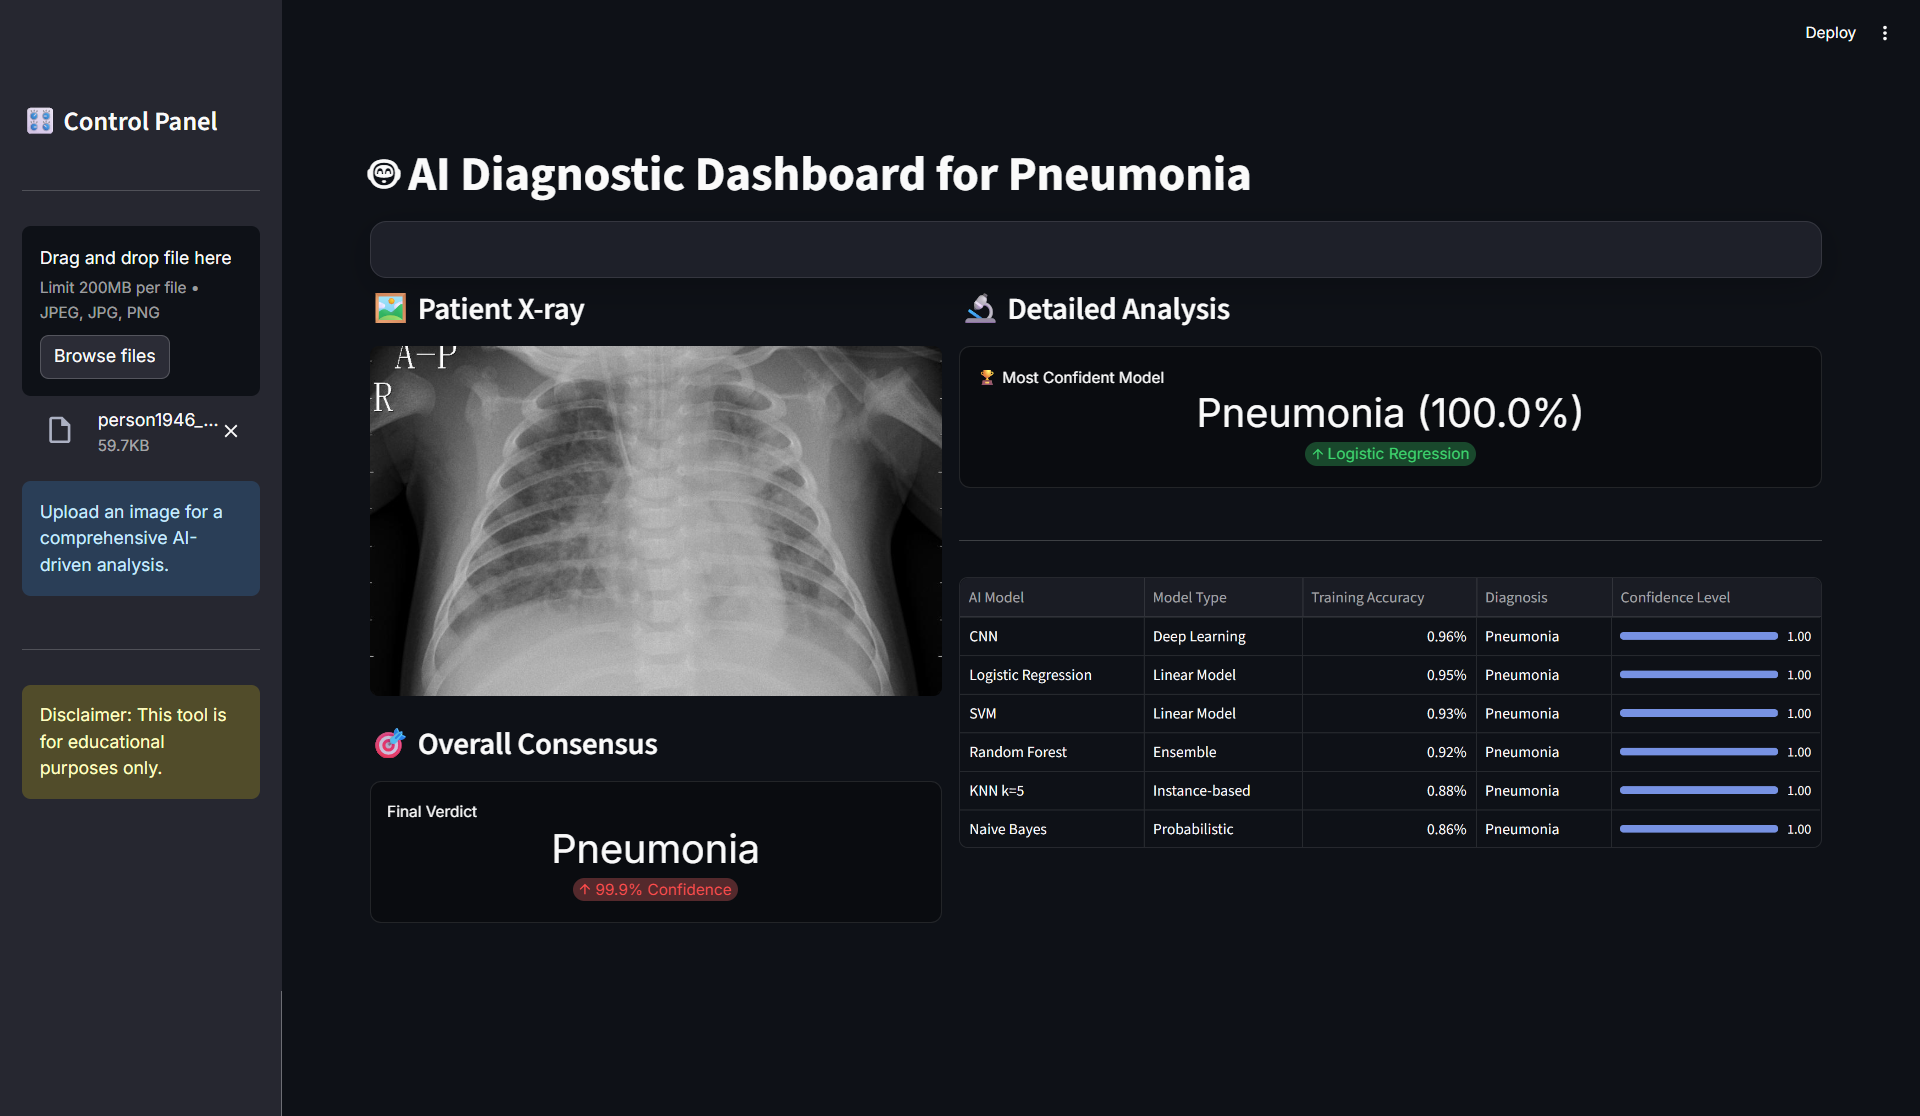
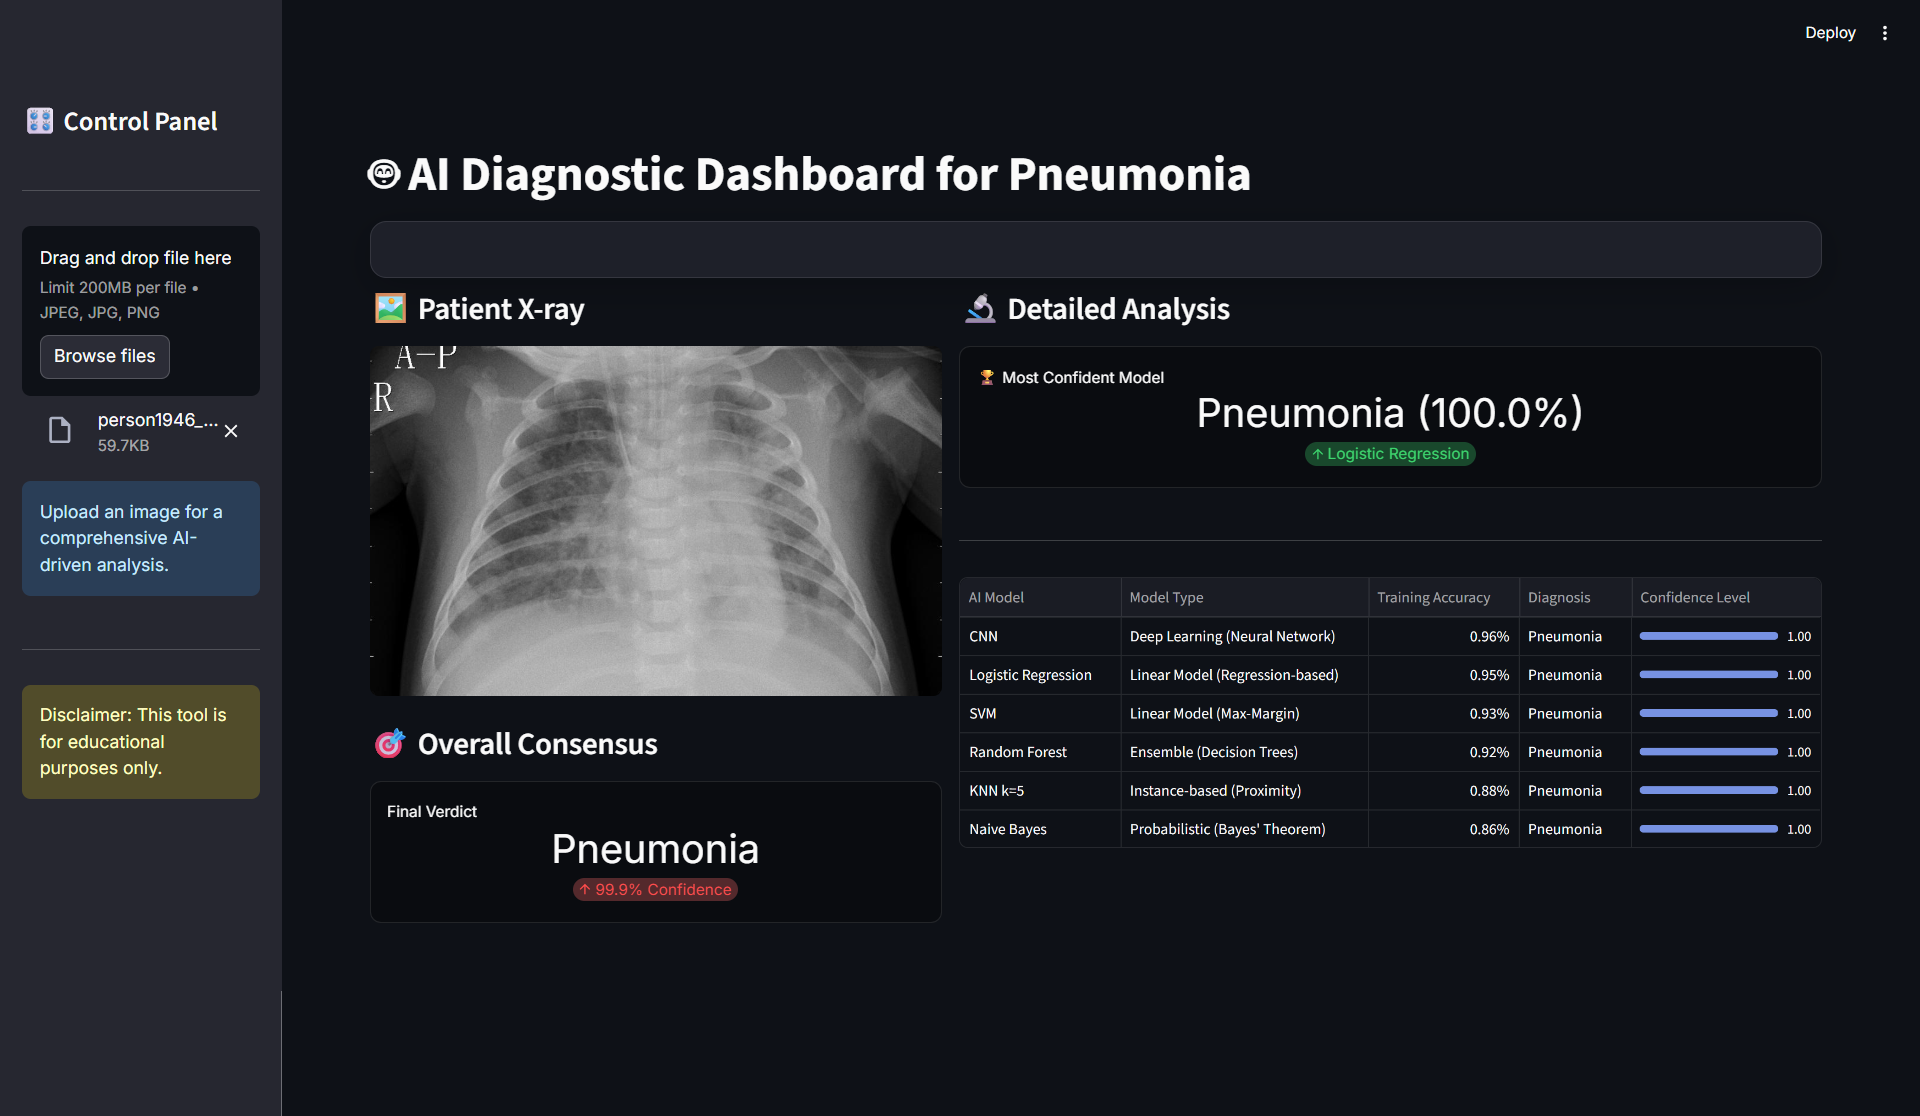
minor updates

Changed region(s): [[0.6875, 0.5179, 0.8438, 0.7616], [0.5938, 0.5179, 0.6875, 0.7616], [0.8438, 0.5179, 0.9062, 0.5484]]

diff --git a/app/app.py b/app/app.py
@@ -60,12 +60,12 @@ models = load_all_models()
 
 # --- Model Info & Explicit Ranking ---
 model_info = {
-    "CNN": {"Accuracy": 0.96, "Type": "Deep Learning"},
-    "Logistic Regression": {"Accuracy": 0.95, "Type": "Linear Model"},
-    "SVM": {"Accuracy": 0.93, "Type": "Linear Model"},
-    "Random Forest": {"Accuracy": 0.92, "Type": "Ensemble"},
-    "KNN k=5": {"Accuracy": 0.88, "Type": "Instance-based"},
-    "Naive Bayes": {"Accuracy": 0.86, "Type": "Probabilistic"}
+    "CNN": {"Accuracy": 0.96, "Type": "Deep Learning (Neural Network)"},
+    "Logistic Regression": {"Accuracy": 0.95, "Type": "Linear Model (Regression-based)"},
+    "SVM": {"Accuracy": 0.93, "Type": "Linear Model (Max-Margin)"},
+    "Random Forest": {"Accuracy": 0.92, "Type": "Ensemble (Decision Trees)"},
+    "KNN k=5": {"Accuracy": 0.88, "Type": "Instance-based (Proximity)"},
+    "Naive Bayes": {"Accuracy": 0.86, "Type": "Probabilistic (Bayes' Theorem)"}
 }
 
 # The single source of truth for conflict resolution.
